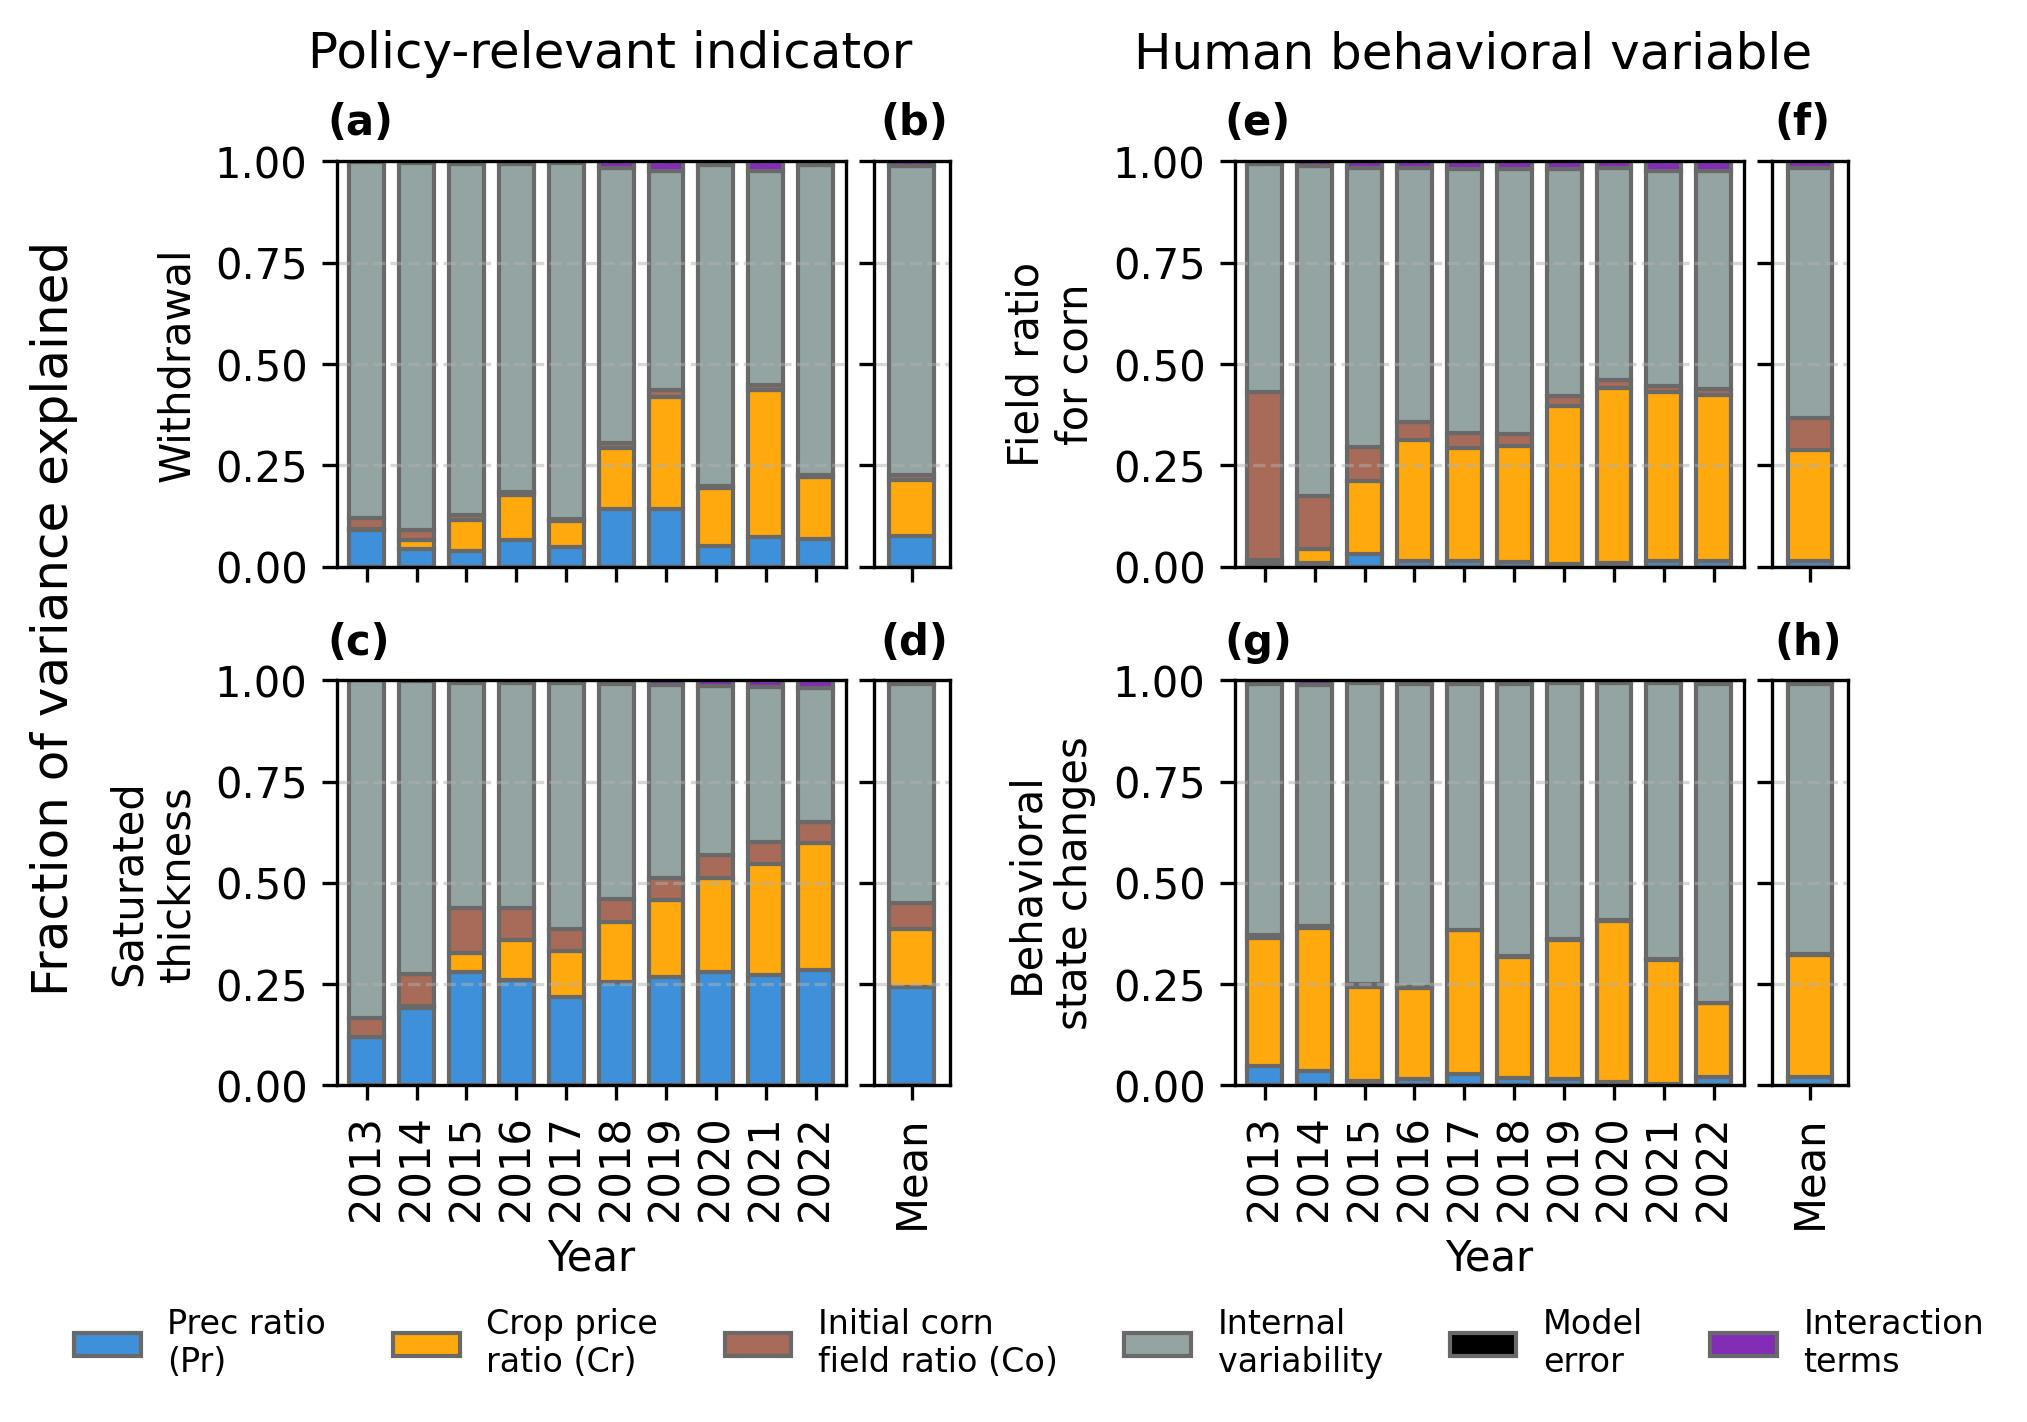
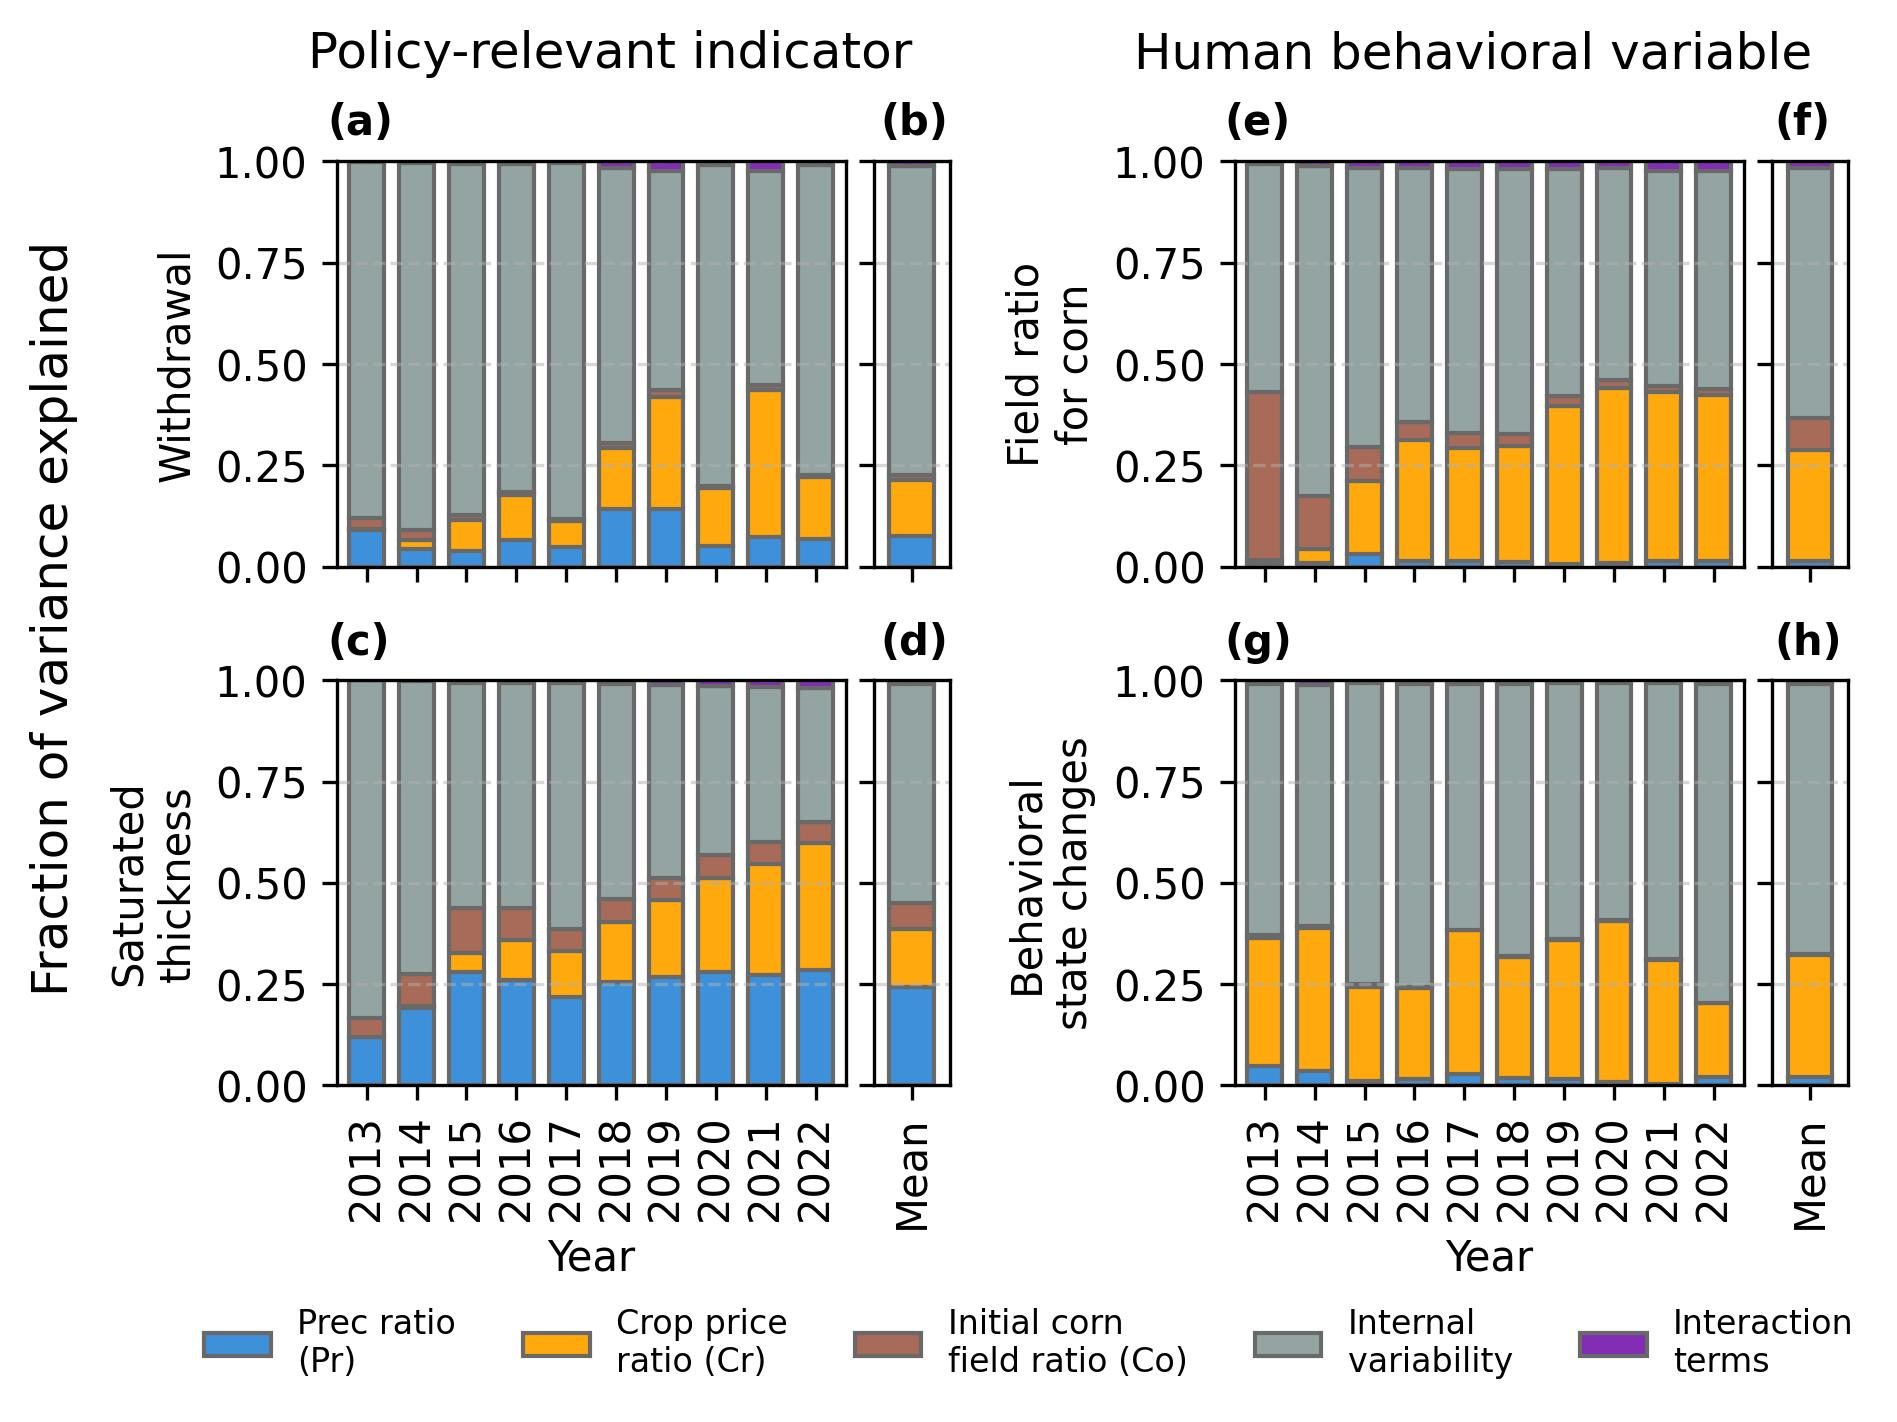
update figures

diff --git a/code/anova_utils.py b/code/anova_utils.py
@@ -257,8 +257,8 @@ def plot_anova_sum_sq_fraction(mu_dict, save_figname=None):
     # new_order = [0, 1, 5, 3, 4]  # Example: Custom order
     # reordered_colors = [cm(i) for i in new_order]
     #                   Pr, Cr, Co, IV, Error, interaction
-    reordered_colors = [cm(0), cm(1), cm(5), cm(3), "black", cm(4)]
-    vars_order = ["Pr", "Cr", "Co", "IV", "Error", "Interaction terms"]
+    reordered_colors = [cm(0), cm(1), cm(5), cm(3), cm(4)]
+    vars_order = ["Pr", "Cr", "Co", "IV", "Interaction terms"]
     def add_anova(ax, v, show_xticks=True):
         name = var_dict[v]
         mu = mu_dict[v][vars_order]
@@ -296,7 +296,7 @@ def plot_anova_sum_sq_fraction(mu_dict, save_figname=None):
         "Cr": "Crop price\nratio (Cr)",
         "Co": "Initial corn\nfield ratio (Co)",
         "IV": "Internal\nvariability",
-        "Error": "Model\nerror",
+        #"Error": "Model\nerror",
         "Interaction terms": "Interaction\nterms"}
     labels = [map_dict[i] if map_dict.get(i) is not None else i for i in labels]
     fig.legend(handles, labels, ncols=len(vars_order), bbox_to_anchor=(0.48, -0.05), loc='upper center', frameon=False, fontsize=8)

diff --git a/figures/code_for_plotting/fig4_5_anova.py b/figures/code_for_plotting/fig4_5_anova.py
@@ -18,13 +18,13 @@ def strip_C(col):
     
     
 # # The plotting data is copied from outputs
-# mu_dict = clt.io.read_pd_hdf5(pn.figures.data_for_plotting.get()/"anova_mu_fraction_withIV_seperated.h5")
-# for k, df in mu_dict.items():
-#     df.rename(columns=strip_C, inplace=True)
-# #mu_dict = clt.io.read_pd_hdf5(pn.figures.data_for_plotting.get()/"anova_mu_fraction_withIV_seperated.h5")
-# plot_anova_sum_sq_fraction(mu_dict, pn.figures.get() / "fig4_anova.jpg")
+mu_dict = clt.io.read_pd_hdf5(pn.figures.data_for_plotting.get()/"anova_mu_fraction_withIV_seperated.h5")
+for k, df in mu_dict.items():
+    df.rename(columns=strip_C, inplace=True)
+#mu_dict = clt.io.read_pd_hdf5(pn.figures.data_for_plotting.get()/"anova_mu_fraction_withIV_seperated.h5")
+plot_anova_sum_sq_fraction(mu_dict, pn.figures.get() / "fig4_anova.jpg")
 
-
+#%%
 df_Wi_regime_norm = pd.read_csv(pn.figures.data_for_plotting.get()/"df_Wi_regime_norm.csv", index_col=[0])
 plot_norm_comparison(pn, df_Wi_regime_norm, save_figname=pn.figures.get() / "fig5_anova_irrigation_norm.jpg")
 
